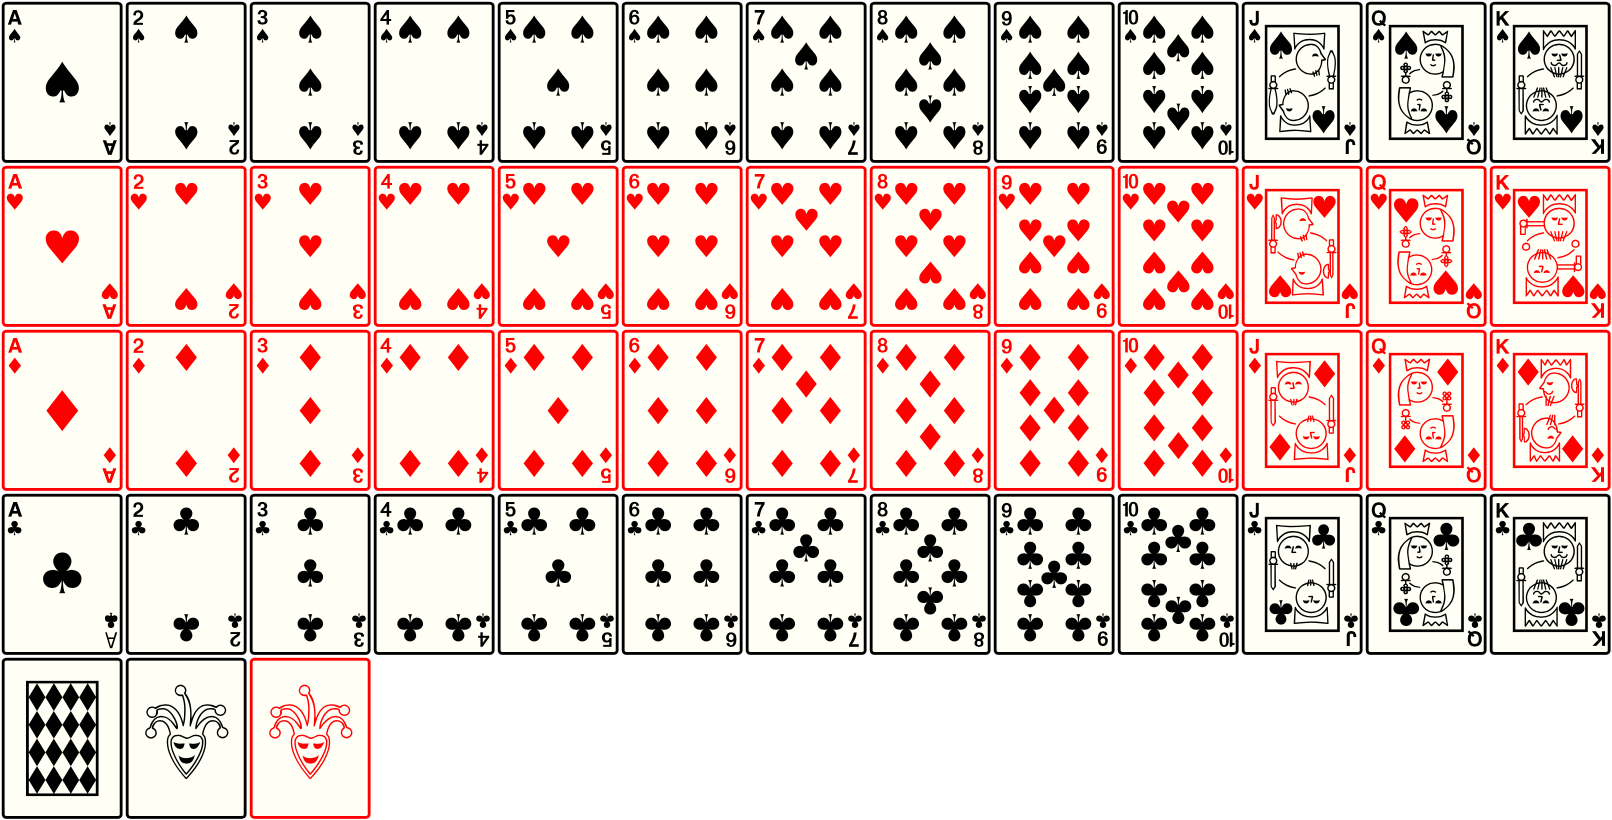
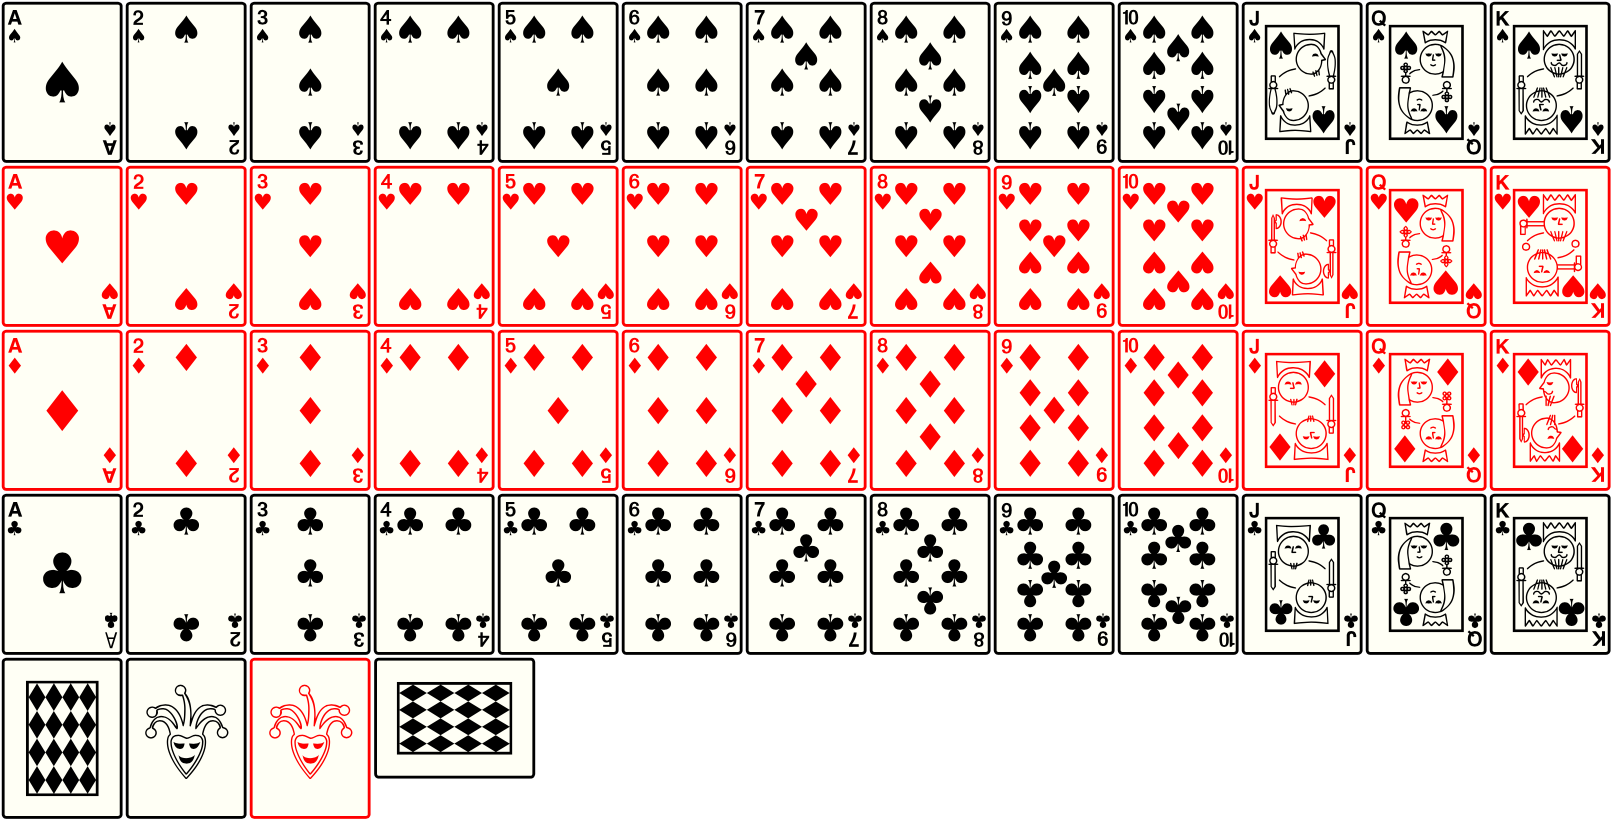
Pesten now has 4 players

Changed region(s): [[0.2171, 0.7927, 0.3412, 0.9756]]

diff --git a/client/src/app/hidden/gametypes/pesten/pesten.component.ts b/client/src/app/hidden/gametypes/pesten/pesten.component.ts
@@ -10,16 +10,14 @@ export class PestenComponent implements OnInit {
 
   stack:Card[] = [];
 
-  userCards:Card[] = [];
-
-  opponentCards:Card[] = [];
+  userCards:Card[][] = [];
 
   pile:Card[] = [];
 
-  yourTurn:boolean = true;
+  turn:number = 0;
   grabCards:number = 1;
   finished:boolean = false;
-  won:boolean = false;
+  won:number = 0;
 
   ctx = undefined;
   img = undefined;
@@ -39,19 +37,21 @@ export class PestenComponent implements OnInit {
   reset() {
     this.stack = [];
     this.userCards = [];
-    this.opponentCards = [];
     this.pile = [];
-    this.yourTurn = true;
+    this.turn = 0;
     this.grabCards = 1;
     this.finished = false;
-    this.won = false;
+    this.won = 0;
+    this.addPackToStack();
     this.addPackToStack();
     this.shuffle(this.stack);
-    for(let i = 0; i < 8; i++) {
-      let userCard = this.stack.pop();
-      userCard.visible = true;
-      this.userCards.push(userCard);
-      this.opponentCards.push(this.stack.pop());
+    for(let j = 0; j < 4; j++) {
+      this.userCards.push([]);
+      for(let i = 0; i < 8; i++) {
+        let userCard = this.stack.pop();
+        userCard.visible = j === 0 ? true : false;
+        this.userCards[j].push(userCard);
+      }
     }
     let startCard = this.stack.pop();
     startCard.visible = true;
@@ -91,7 +91,7 @@ export class PestenComponent implements OnInit {
 
   clickCard(card, user) {
 
-    if(this.yourTurn === user && !this.finished) {
+    if(this.turn === user && !this.finished) {
       // it's our turn
       if(this.grabCards > 1) {
         // a grab-card was thrown, we need to grab or throw a grab-card of our own
@@ -104,7 +104,7 @@ export class PestenComponent implements OnInit {
             this.grabCards += 2;
           }
           // finish turn
-          this.yourTurn = !this.yourTurn;
+          this.turn = (this.turn + 1) % 4;
           return true;
         } else {
           return false;
@@ -126,7 +126,7 @@ export class PestenComponent implements OnInit {
           }
           if(card.number !== 7 && card.number !== 8) {
             // finish turn
-            this.yourTurn = !this.yourTurn;
+            this.turn = (this.turn + 1) % 4;
           }
           return true;
         } else {
@@ -141,54 +141,34 @@ export class PestenComponent implements OnInit {
   }
 
   removeCardFromUser(card, user) {
-    if(user) {
-      let i;
-      for(i = 0; i < this.userCards.length; i++) {
-        if(this.userCards[i] === card) {
-          break;
-        }
+    let i;
+    for(i = 0; i < this.userCards[user].length; i++) {
+      if(this.userCards[user][i] === card) {
+        break;
       }
-      this.userCards.splice(i, 1);
-      if(this.userCards.length === 0) {
-        this.finished = true;
-        this.won = true;
-      }
-    } else {
-      let i;
-      for(i = 0; i < this.opponentCards.length; i++) {
-        if(this.opponentCards[i] === card) {
-          break;
-        }
-      }
-      this.opponentCards.splice(i, 1);
-      if(this.opponentCards.length === 0) {
-        this.finished = true;
-        this.won = false;
-      }
+    }
+    this.userCards[user].splice(i, 1);
+    if(this.userCards[user].length === 0) {
+      this.finished = true;
+      this.won = user;
     }
   }
 
-  clickTable(stack, turn) {
-    if(this.yourTurn === turn && stack && !this.finished) {
+  clickStack(turn) {
+    if(this.turn === turn && !this.finished) {
       // it's our turn
 
       for(let i = 0; i < this.grabCards; i++) {
-        if(stack) {
-          let card = this.stack.pop();
-          if(this.stack.length === 0) {
-            this.newStack();
-          }
-          if(turn) {
-            card.visible = true;
-            this.userCards.push(card);
-          } else {
-            this.opponentCards.push(card);
-          }
+        let card = this.stack.pop();
+        if(this.stack.length === 0) {
+          this.newStack();
         }
+        card.visible = turn === 0 ? true : false;
+        this.userCards[turn].push(card);
       }
       this.grabCards = 1;
       // finish turn
-      this.yourTurn = !this.yourTurn
+      this.turn = (this.turn + 1) % 4;
     }
   }
 
@@ -214,18 +194,18 @@ export class PestenComponent implements OnInit {
     );
   }
 
-  doOpponentTurn() {
+  doOpponentTurn(user) {
     let found = false;
-    for(let i = 0; i < this.opponentCards.length; i++) {
-      let card = this.opponentCards[i];
-      if(this.clickCard(card, false)) {
+    for(let i = 0; i < this.userCards[user].length; i++) {
+      let card = this.userCards[user][i];
+      if(this.clickCard(card, user)) {
         found = true;
         card.visible = true;
         break;
       }
     }
     if(!found) {
-      this.clickTable(true, false);
+      this.clickStack(user);
     }
   }
 
@@ -247,22 +227,22 @@ export class PestenComponent implements OnInit {
 
     if(my < 164 + 2) {
       // top row of cards
-      this.doOpponentTurn();
+      this.doOpponentTurn(this.turn);
     } else if(my > this.ctx.canvas.height - 164 - 2) {
       // bottom row of cards
-      let xPos = (this.ctx.canvas.width / 2) - ((this.userCards.length * 62 + 62) / 2);
+      let xPos = (this.ctx.canvas.width / 2) - ((this.userCards[0].length * 62 + 62) / 2);
       if(xPos < 0) {
         xPos += (2 * -xPos) * (1 - (2 * (mx / this.ctx.canvas.width)));
       }
       let pickedCard = undefined;
-      for(let card of this.userCards) {
-        if(mx > xPos && mx < xPos + (card === this.userCards[this.userCards.length - 1] ? 124 : 62)) {
+      for(let card of this.userCards[0]) {
+        if(mx > xPos && mx < xPos + (card === this.userCards[0][this.userCards[0].length - 1] ? 124 : 62)) {
           pickedCard = card;
         }
         xPos += 62;
       }
       if(pickedCard) {
-        this.clickCard(pickedCard, true);
+        this.clickCard(pickedCard, 0);
       }
     } else {
       // middle of table
@@ -270,7 +250,7 @@ export class PestenComponent implements OnInit {
         my > this.ctx.canvas.height / 2 - 82 && my < this.ctx.canvas.height / 2 + 82 &&
         mx > this.ctx.canvas.width / 2 && mx < this.ctx.canvas.width / 2 + 124 + 2
       ) {
-        this.clickTable(true, true);
+        this.clickStack(0);
       }
     }
     this.updateView(mx, my);
@@ -284,28 +264,42 @@ export class PestenComponent implements OnInit {
     ctx.fillStyle = "#5ba318";
     ctx.fillRect(0, 0, c.width, c.height);
 
-    this.pile[this.pile.length - 1].draw(ctx, (c.width / 2) - 124 - 2, (c.height / 2) - 82, this.img, false);
+    this.pile[this.pile.length - 1].draw(ctx, (c.width / 2) - 124 - 2, (c.height / 2) - 82, this.img, false, false);
     let highlight = (
       my > c.height / 2 - 82 && my < c.height / 2 + 82 &&
       mx > c.width / 2 && mx < c.width / 2 + 124 + 2
     );
-    this.stack[this.stack.length - 1].draw(ctx, (c.width / 2) + 2, (c.height / 2) - 82, this.img, highlight && !this.finished);
+    this.stack[this.stack.length - 1].draw(ctx, (c.width / 2) + 2, (c.height / 2) - 82, this.img, highlight && !this.finished, false);
 
-    let xPos = (c.width / 2) - ((this.opponentCards.length * 62 + 62) / 2);
-    for(let card of this.opponentCards) {
-      card.draw(ctx, xPos, 2, this.img, false);
+    let xPos = (c.width / 2) - ((this.userCards[1].length * 62 + 62) / 2);
+    for(let card of this.userCards[1]) {
+      card.draw(ctx, xPos, 2, this.img, false, false);
       xPos += 62;
     }
-    xPos = (c.width / 2) - ((this.userCards.length * 62 + 62) / 2);
+
+    xPos = (c.height / 2) - ((this.userCards[2].length * 62 + 62) / 2);
+    for(let card of this.userCards[2]) {
+      card.draw(ctx, 2, xPos, this.img, false, true);
+      xPos += 62;
+    }
+
+    xPos = (c.height / 2) - ((this.userCards[3].length * 62 + 62) / 2);
+    for(let card of this.userCards[3]) {
+      card.draw(ctx, c.width - 164 - 2, xPos, this.img, false, true);
+      xPos += 62;
+    }
+
+
+    xPos = (c.width / 2) - ((this.userCards[0].length * 62 + 62) / 2);
     if(xPos < 0) {
       xPos += (2 * -xPos) * (1 - (2 * (mx / c.width)));
     }
-    for(let card of this.userCards) {
+    for(let card of this.userCards[0]) {
       let highlight = (
         my > c.height - 164 - 2 &&
-        mx > xPos && mx < xPos + (card === this.userCards[this.userCards.length - 1] ? 124 : 62)
+        mx > xPos && mx < xPos + (card === this.userCards[0][this.userCards[0].length - 1] ? 124 : 62)
       );
-      card.draw(ctx, xPos, c.height - 164 - 2, this.img, highlight && !this.finished);
+      card.draw(ctx, xPos, c.height - 164 - 2, this.img, highlight && !this.finished, false);
       xPos += 62;
     }
 
@@ -317,7 +311,7 @@ export class PestenComponent implements OnInit {
       ctx.fillStyle = "#000000";
       ctx.strokeStyle = "#000000";
       ctx.strokeRect(c.width / 2 - 100, c.height / 2 - 60, 200, 120);
-      ctx.fillText(this.won ? "You won!" : "You lost...", c.width / 2, c.height / 2);
+      ctx.fillText(this.won === 0 ? "You won!" : "You lost...", c.width / 2, c.height / 2);
       ctx.font = "15px arial";
       ctx.fillText("Click to play again", c.width / 2, c.height / 2 + 30);
     }

diff --git a/client/src/app/hidden/gametypes/card.ts b/client/src/app/hidden/gametypes/card.ts
@@ -61,12 +61,15 @@ export class Card {
     return "black";
   }
 
-  draw(ctx, x, y, img, highlight):void {
+  draw(ctx, x, y, img, highlight, rotate):void {
     let coords = this.getCoords();
+    if(rotate) {
+      coords = [124 * 3, 164 * 4];
+    }
     ctx.drawImage(
       img,
-      coords[0], coords[1], 124, 164,
-      x, y, 124, 164
+      coords[0], coords[1], rotate ? 164 : 124, rotate ? 124 : 164,
+      x, y, rotate ? 164 : 124, rotate ? 124 : 164
     );
     if(highlight) {
       ctx.fillStyle = "rgba(200, 200, 255, 0.7)";
